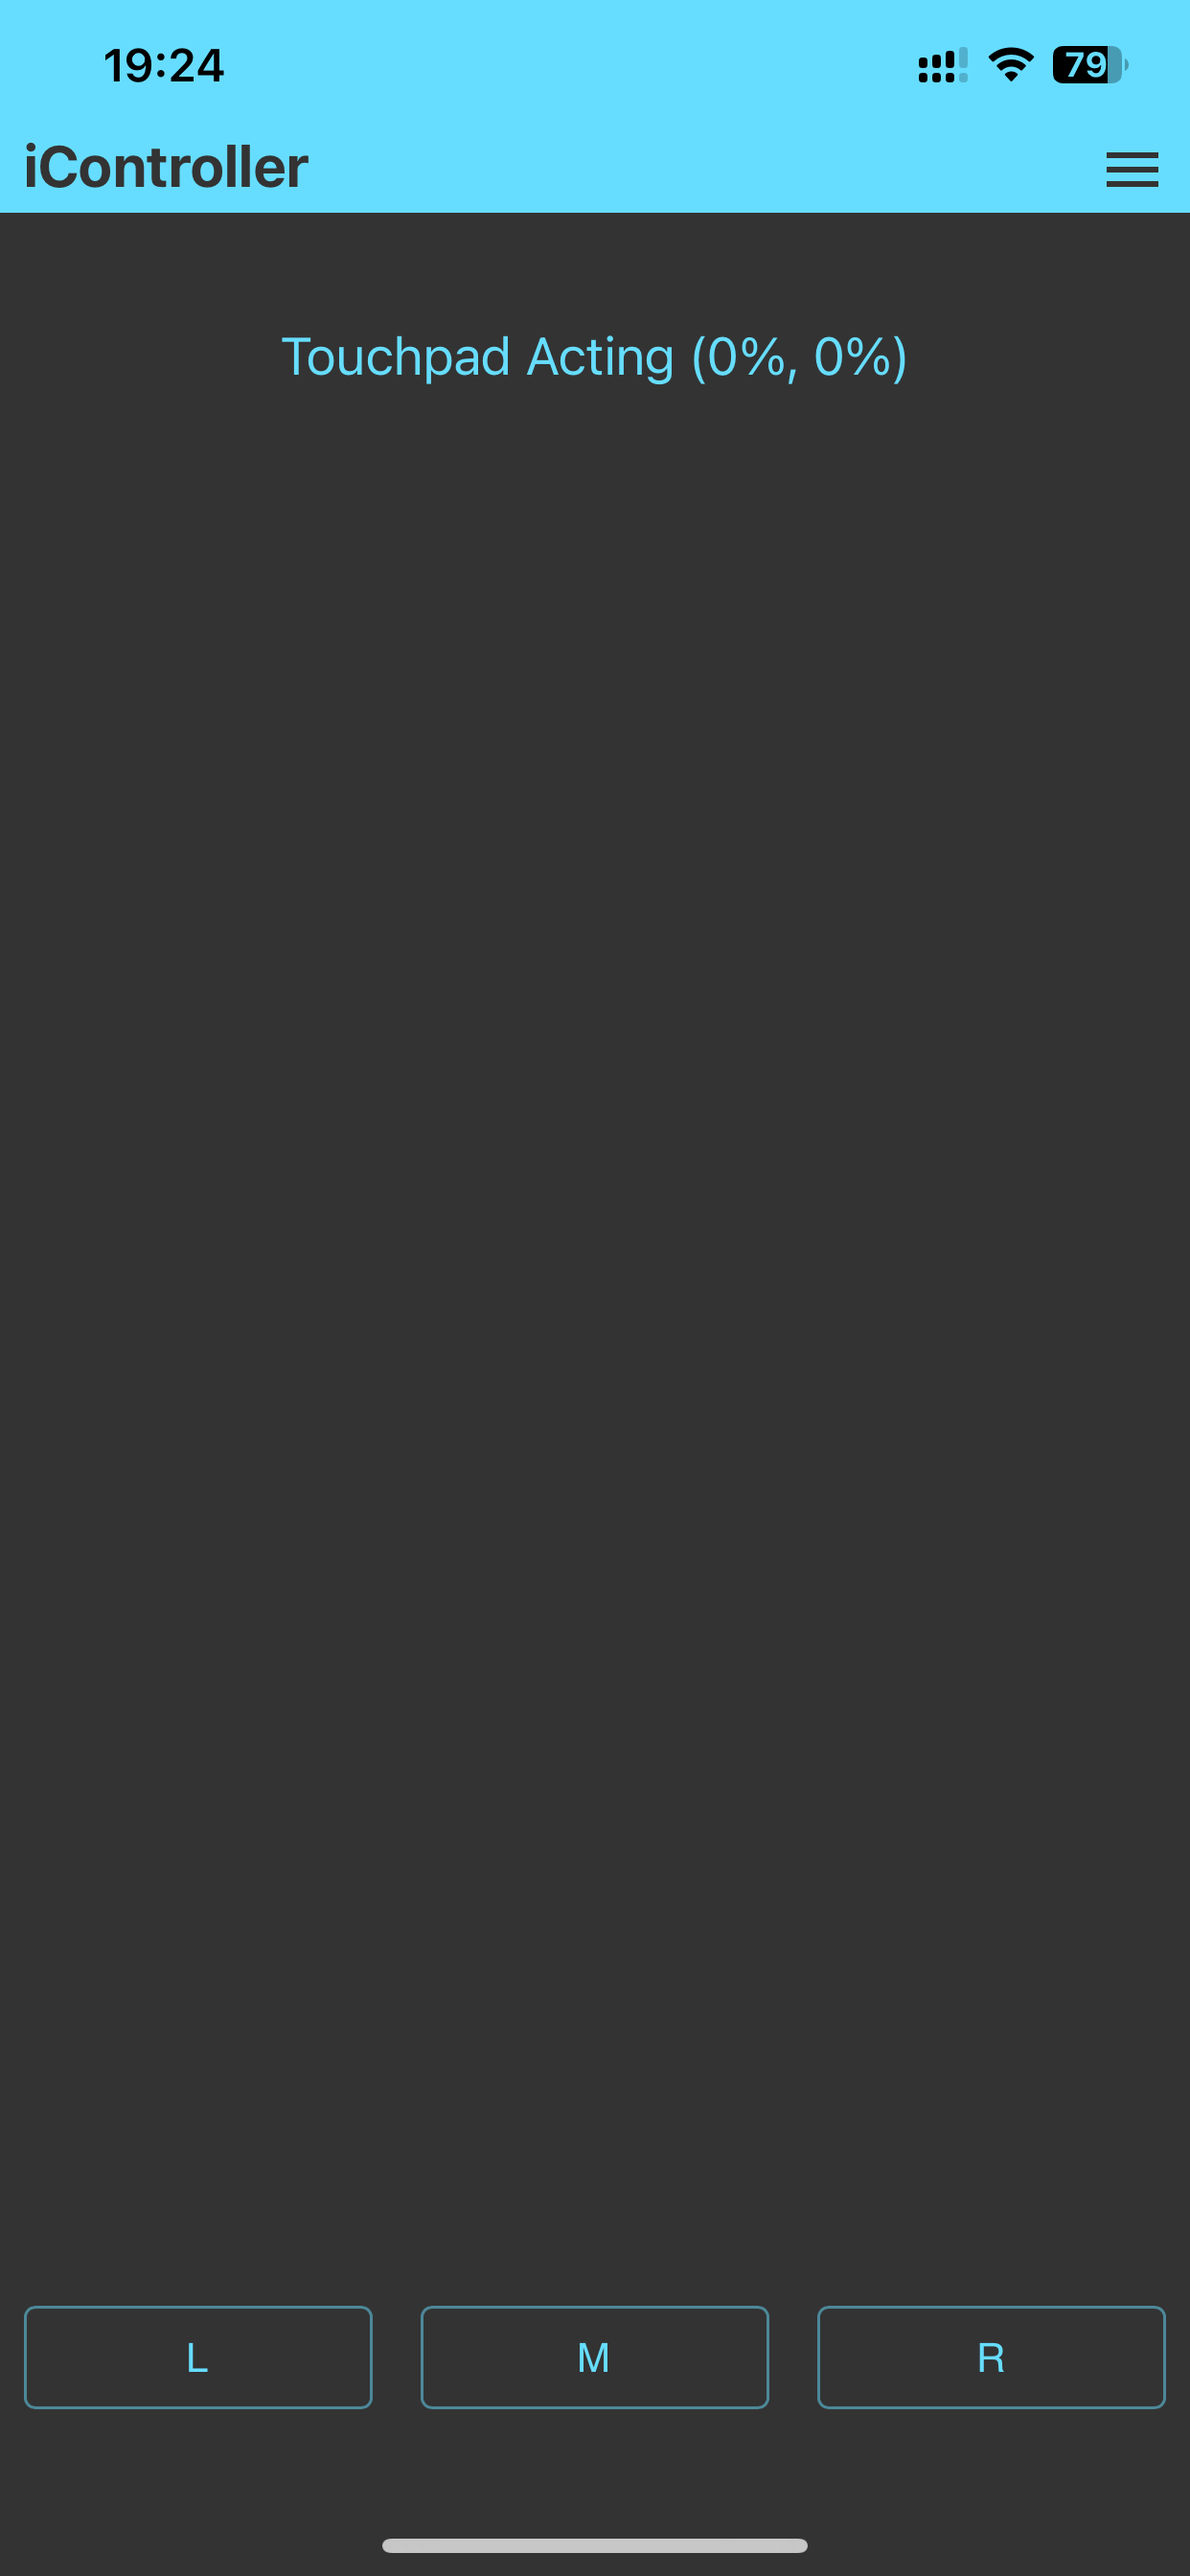
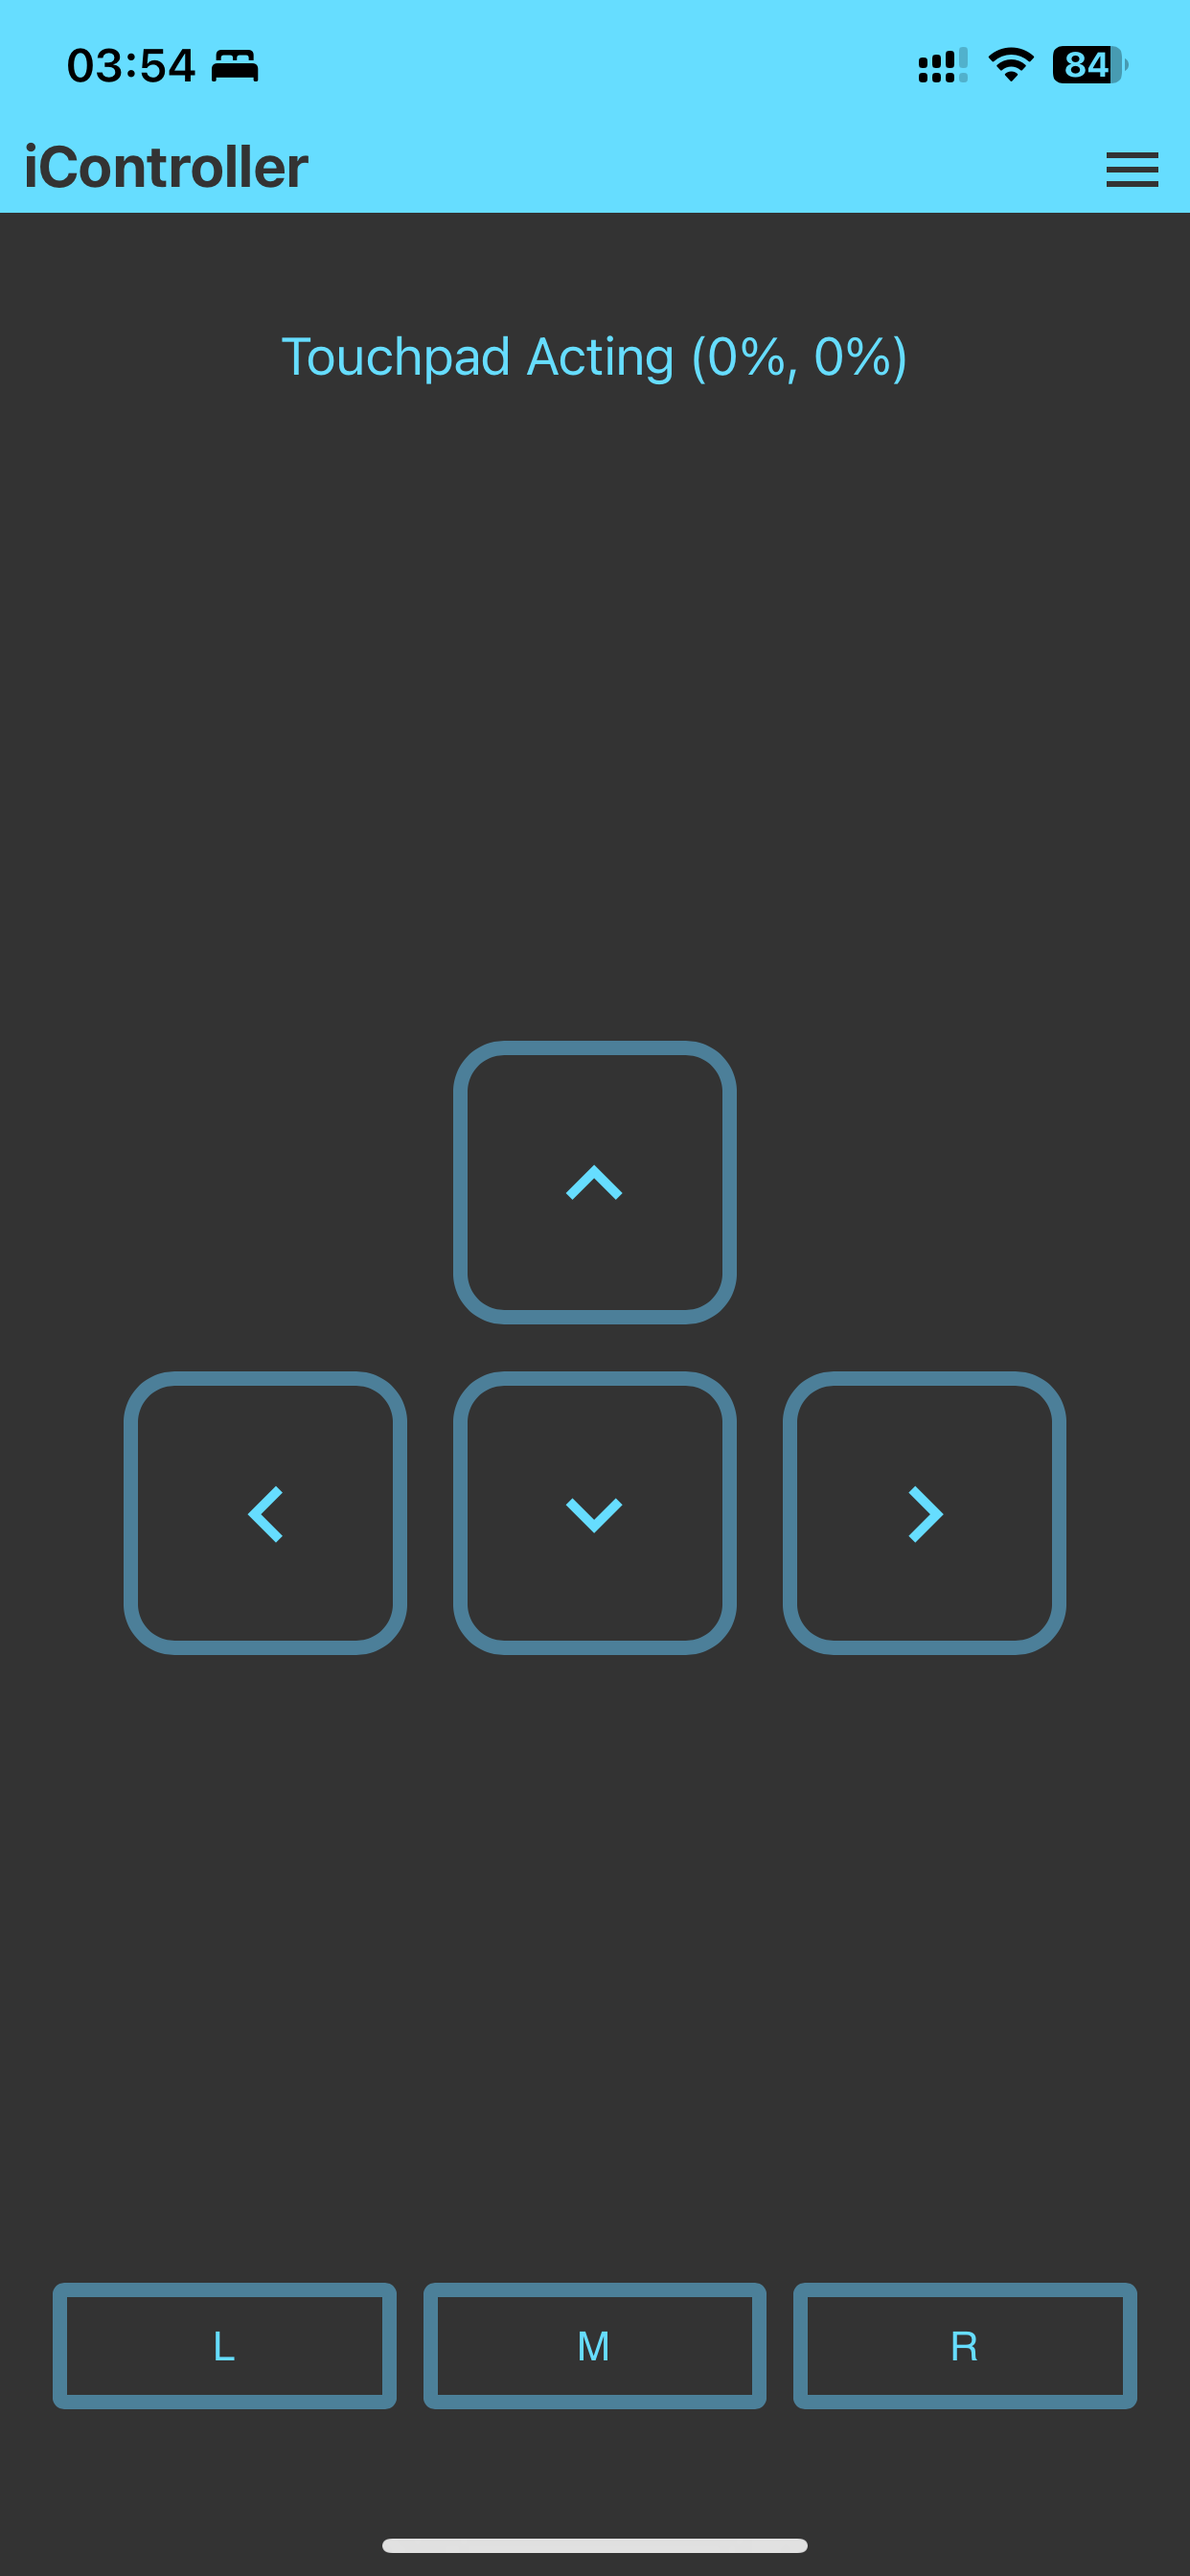
Theme Setter

diff --git a/src/component/SideBar/SettingMenu.js b/src/component/SideBar/SettingMenu.js
@@ -18,7 +18,13 @@ import {
     CheckBoxRounded
 } from '@mui/icons-material';
 import {ThemeProvider} from '@mui/material/styles';
-import {customTheme, primaryColor, secondaryColor} from '../../utils/Theme';
+import {
+    customTheme,
+    primaryColor,
+    secondaryColor,
+    setPrimaryColor,
+    setSecondaryColor
+} from '../../utils/Theme';
 
 class SettingMenu extends Component {
     constructor(props) {
@@ -37,6 +43,8 @@ class SettingMenu extends Component {
             tPadSensitivity: this.context.tPadSensitivity.toString(),
             mWheelSensitivity: this.context.mWheelSensitivity.toString(),
         });
+        // setPrimaryColor("#ff0000");
+        // setSecondaryColor("#00ff00");
     }
 
     handleRadioChange = (event) => {
@@ -101,9 +109,34 @@ class SettingMenu extends Component {
                                 name="row-radio-buttons-group"
                                 value={this.state.drawerSide}
                                 onChange={this.handleRadioChange}
+                                color="secondary"
                             >
-                                <FormControlLabel value="l" control={<Radio/>} label="L"/>
-                                <FormControlLabel value="r" control={<Radio/>} label="R"/>
+                                <FormControlLabel
+                                    value="l"
+                                    control={<Radio
+                                        sx={{
+                                            color: secondaryColor,
+                                            '&.Mui-checked': {
+                                                color: secondaryColor,
+                                            },
+                                        }}
+                                        color="secondary"
+                                    />}
+                                    label="L"
+                                />
+                                <FormControlLabel
+                                    value="r"
+                                    control={<Radio
+                                        sx={{
+                                            color: secondaryColor,
+                                            '&.Mui-checked': {
+                                                color: secondaryColor,
+                                            },
+                                        }}
+                                        color="secondary"
+                                    />}
+                                    label="R"
+                                />
                             </RadioGroup>
                         </FormControl>
                     </ListItem>
@@ -125,6 +158,12 @@ class SettingMenu extends Component {
                             size="small"
                             fullWidth='true'
                             color="secondary"
+                            sx={{
+                                input: {
+                                    color: secondaryColor,
+                                    caretColor: secondaryColor,
+                                }
+                            }}
                             focused='true'
                         />
                         <Typography style={{fontSize: '1rem'}}>&nbsp;</Typography>
@@ -143,6 +182,12 @@ class SettingMenu extends Component {
                             size="small"
                             fullWidth='true'
                             color="secondary"
+                            sx={{
+                                input: {
+                                    color: secondaryColor,
+                                    caretColor: secondaryColor,
+                                }
+                            }}
                             focused='true'
                         />
                         <Typography style={{fontSize: '1rem'}}>&nbsp;</Typography>

diff --git a/src/component/SideBar/KeyboardMenu.js b/src/component/SideBar/KeyboardMenu.js
@@ -13,7 +13,11 @@ import {
     SubdirectoryArrowLeftOutlined
 } from '@mui/icons-material';
 import {ThemeProvider} from '@mui/material/styles';
-import {customTheme, primaryColor, secondaryColor} from '../../utils/Theme';
+import {
+    customTheme,
+    primaryColor,
+    secondaryColor
+} from '../../utils/Theme';
 import {
     api_keyboard_buttons,
     api_keyboard_typewriting,
@@ -119,7 +123,7 @@ class KeyboardMenu extends Component {
                     </ListItem>
                     <ListItem display="flex" alignItems="center">
                         {this.state.serverIsMac ? (
-                                <Typography style={{fontSize: '1rem'}}>*MacOS ASCII Only</Typography>
+                            <Typography style={{fontSize: '1rem'}}>*MacOS ASCII Only</Typography>
                         ) : (
                             <>
                                 <Radio
@@ -129,6 +133,13 @@ class KeyboardMenu extends Component {
                                     }}
                                     value={this.context.keyboardDataSendMod}
                                     inputProps={{'aria-label': 'a'}}
+                                    sx={{
+                                        color: secondaryColor,
+                                        '&.Mui-checked': {
+                                            color: secondaryColor,
+                                        },
+                                    }}
+                                    color='secondary'
                                 />
                                 <Typography style={{fontSize: '1rem'}}>Past</Typography>
                                 <Radio
@@ -138,6 +149,13 @@ class KeyboardMenu extends Component {
                                     }}
                                     value={this.context.keyboardDataSendMod}
                                     inputProps={{'aria-label': 'b'}}
+                                    sx={{
+                                        color: secondaryColor,
+                                        '&.Mui-checked': {
+                                            color: secondaryColor,
+                                        },
+                                    }}
+                                    color='secondary'
                                 />
                                 <Typography style={{fontSize: '1rem'}}>Type</Typography>
                             </>
@@ -147,13 +165,13 @@ class KeyboardMenu extends Component {
                             onClick={() => this.handleSendButton('Enter')}
                             style={{marginLeft: '10px'}}
                         >
-                            <SubdirectoryArrowLeftOutlined/>
+                            <SubdirectoryArrowLeftOutlined sx={{color: secondaryColor}}/>
                         </IconButton>
                         <IconButton
                             onClick={() => this.handleSendButton('Backspace')}
                             style={{marginRight: '10px'}}
                         >
-                            <BackspaceOutlined/>
+                            <BackspaceOutlined sx={{color: secondaryColor}}/>
                         </IconButton>
                     </ListItem>
                 </List>

diff --git a/src/utils/Theme.js b/src/utils/Theme.js
@@ -1,11 +1,78 @@
 import {createTheme} from "@mui/material/styles";
 
-export const primaryColor = '#6df';
-export const primaryColorTrans = 'rgba(102, 204, 255, 0.5)';
-export const secondaryColor = '#333';
-export const secondaryColorTrans = 'rgba(51, 51, 51, 0.5)';
+export let primaryColor = '#6df';
+export let primaryColorTrans = 'rgba(102, 204, 255, 0.5)';
+export let secondaryColor = '#333';
+export let secondaryColorTrans = 'rgba(51, 51, 51, 0.5)';
 
-export const customTheme = createTheme({
+// 自动检测颜色格式并转换为半透明颜色值
+const convertHexToRGBA = (hex, opacity) => {
+    let tempHex = hex.replace('#', '');
+    // 检测并转换3位十六进制颜色为6位
+    if (tempHex.length === 3) {
+        tempHex = tempHex.split('').map((hex) => hex + hex).join('');
+    } else if (tempHex.length !== 6) {
+        // 如果不是3位也不是6位，则返回null
+        return null;
+    }
+    const r = parseInt(tempHex.substring(0, 2), 16);
+    const g = parseInt(tempHex.substring(2, 4), 16);
+    const b = parseInt(tempHex.substring(4, 6), 16);
+
+    return `rgba(${r}, ${g}, ${b}, ${opacity})`;
+};
+
+// 更新主题
+const updateTheme = () => {
+    customTheme.palette.primary.main = primaryColor;
+    customTheme.palette.secondary.main = secondaryColor;
+};
+
+export const setPrimaryColor = (color) => {
+    const newColorTrans = convertHexToRGBA(color, 0.5);
+    if (newColorTrans) {
+        primaryColor = color;
+        primaryColorTrans = newColorTrans;
+        updateTheme();
+        // 修改 head 中的 <meta name="theme-color" content="#66ddff"/>
+        const metaThemeColor = document.querySelector("meta[name=theme-color]");
+        if (metaThemeColor) {
+            metaThemeColor.setAttribute("content", color);
+        }
+        // 改变CSS中的background-color
+        const html = document.querySelector("html");
+        const body = document.querySelector("body");
+        const fullScreenBackground = document.querySelector(".full-screen-background");
+        const appHeader = document.querySelector(".App-header");
+        if (html) {
+            html.style.backgroundColor = color;
+        }
+        if (body) {
+            body.style.backgroundColor = color;
+        }
+        if (fullScreenBackground) {
+            fullScreenBackground.style.backgroundColor = color;
+        }
+        if (appHeader) {
+            appHeader.style.color = color;
+        }
+    }
+};
+
+export const setSecondaryColor = (color) => {
+    const newColorTrans = convertHexToRGBA(color, 0.5);
+    if (newColorTrans) {
+        secondaryColor = color;
+        secondaryColorTrans = newColorTrans;
+        updateTheme();
+        const appHeader = document.querySelector(".App-header");
+        if (appHeader) {
+            appHeader.style.backgroundColor = color;
+        }
+    }
+};
+
+export let customTheme = createTheme({
     palette: {
         primary: {
             main: primaryColor,
@@ -13,8 +80,5 @@ export const customTheme = createTheme({
         secondary: {
             main: secondaryColor,
         },
-        inherit: {
-            main: '#333',
-        }
     },
 });

diff --git a/public/index.html b/public/index.html
@@ -3,7 +3,6 @@
 <head>
     <meta charset="utf-8"/>
     <link rel="icon" href="./256a.png"/>
-    <meta name="theme-color" content="#66ddff"/>
     <meta name="description" content="GitHub@Mehver"/>
     <meta name="viewport" content="width=device-width, initial-scale=1"/>
     <title>iController</title>
